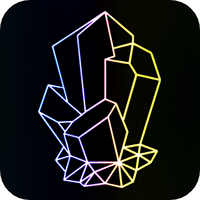
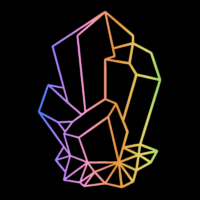
Updated README and images

diff --git a/convert.js b/convert.js
@@ -697,4 +697,6 @@ const compatibilityTable =
 
 // Write result to README.md
 replaceInFile(`./README.md`, "//COMPATIBILITY_TABLE", compatibilityTable)
+// Clean up comments
+replaceInFile(`./README.md`, /\<\!\-\-.*?\-\-\>/gms, "")
 console.log("Finished updating compatibility table")

diff --git a/README-TEMPLATE.md b/README-TEMPLATE.md
@@ -3,11 +3,11 @@
 A collection of [Obsidian](https://obsidian.md/) themes adapted for [Quartz](https://github.com/jackyzha0/quartz).
 
 <p align="center" width="100%">
-  <img src="media/social-preview.png" alt="Quartz Themes logo"/>
+  <img src="media/quartz-themes-800-wide-rounded.png" alt="Quartz Themes logo"/>
 </p>
-
+<!--
 _<sub>left to right: `vauxhaul`, `tokyo-night`, `its-theme`, `absolutegruv`, `sandstorm`, `obsidian-nord`</sub>_
-
+-->
 ![Last updated: 2024-10-05](<https://img.shields.io/date/1742985000?style=for-the-badge&label=Last Obsidian themes list fetch&labelColor=hsl(258%2C%2088%25%2C%2066%25)&color=444>)
 ![Supported Quartz version v4.5.0](<https://img.shields.io/badge/v4.5.0-Quartz?style=for-the-badge&label=Quartz%20version&labelColor=hsl(204%2C%2022%25%2C%2057%25)&color=444>)
 
@@ -213,5 +213,7 @@ npm run update
 | <img src="media/dark.svg" alt="DARK"/>   | Dark theme only           |
 
 </details>
-
+<!--
+Compatibility table is built from the settings in `themes.json`
+-->
 //COMPATIBILITY_TABLE

diff --git a/README.md b/README.md
@@ -3,10 +3,8 @@
 A collection of [Obsidian](https://obsidian.md/) themes adapted for [Quartz](https://github.com/jackyzha0/quartz).
 
 <p align="center" width="100%">
-  <img src="media/social-preview.png" alt="Quartz Themes logo"/>
+  <img src="media/quartz-themes-800-wide-rounded.png" alt="Quartz Themes logo"/>
 </p>
-
-_<sub>left to right: `vauxhaul`, `tokyo-night`, `its-theme`, `absolutegruv`, `sandstorm`, `obsidian-nord`</sub>_
 
 ![Last updated: 2024-10-05](<https://img.shields.io/date/1742985000?style=for-the-badge&label=Last Obsidian themes list fetch&labelColor=hsl(258%2C%2088%25%2C%2066%25)&color=444>)
 ![Supported Quartz version v4.5.0](<https://img.shields.io/badge/v4.5.0-Quartz?style=for-the-badge&label=Quartz%20version&labelColor=hsl(204%2C%2022%25%2C%2057%25)&color=444>)
